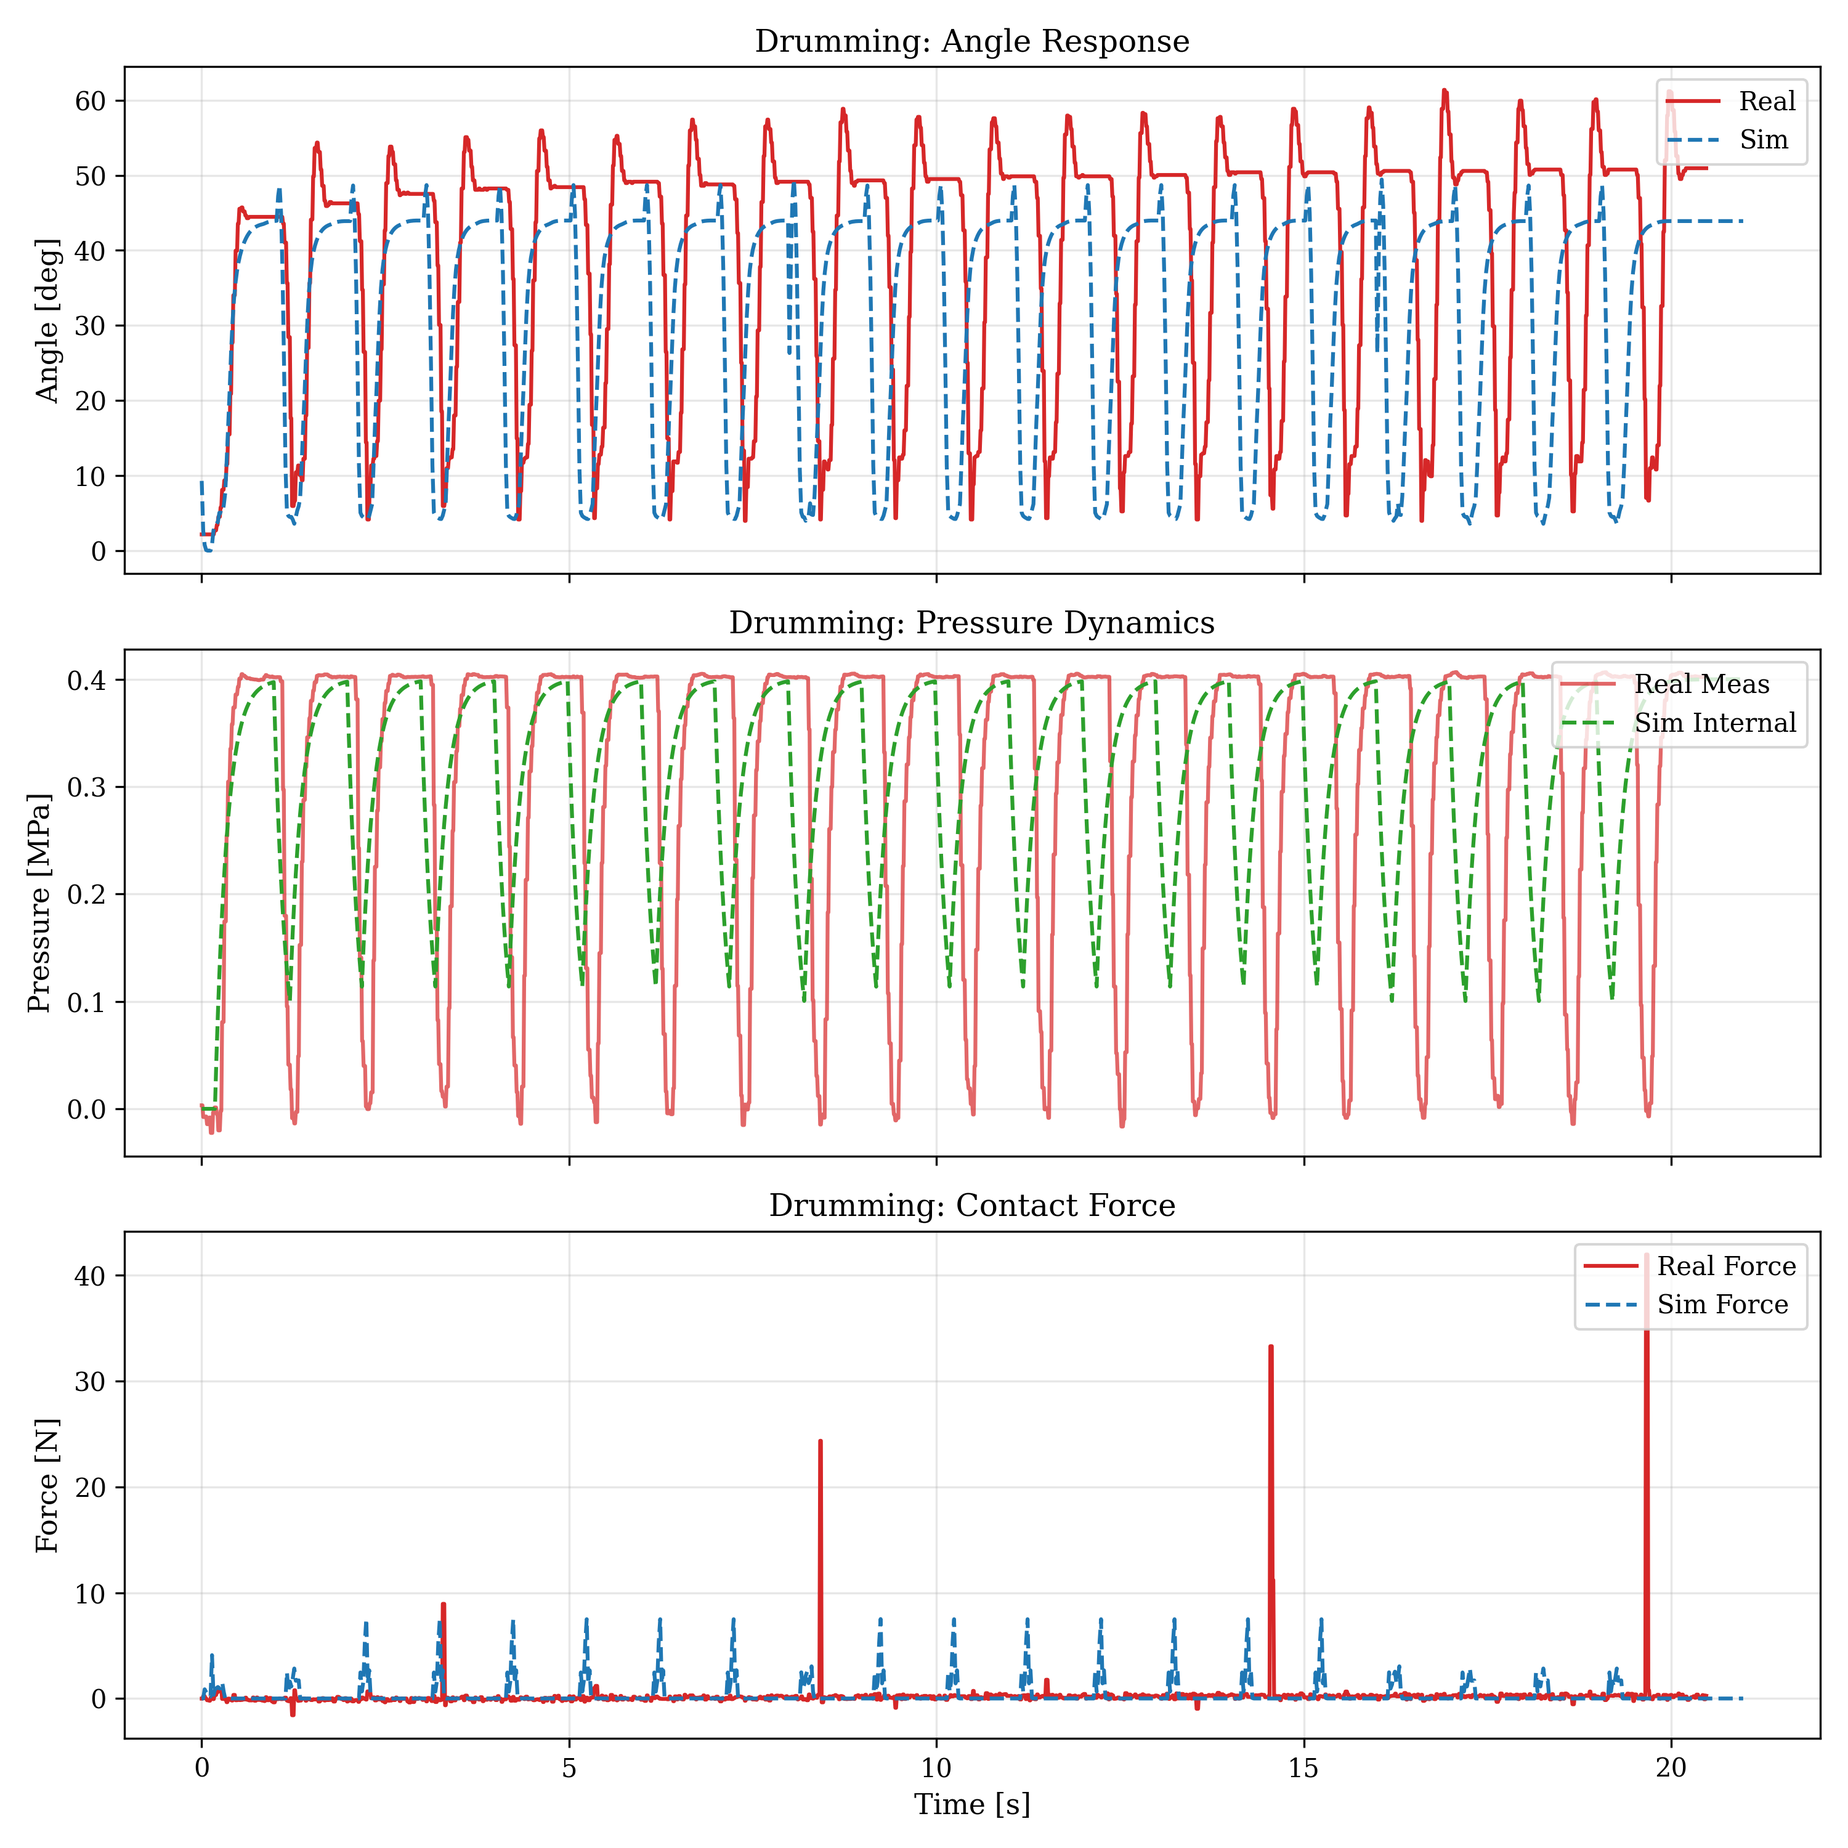
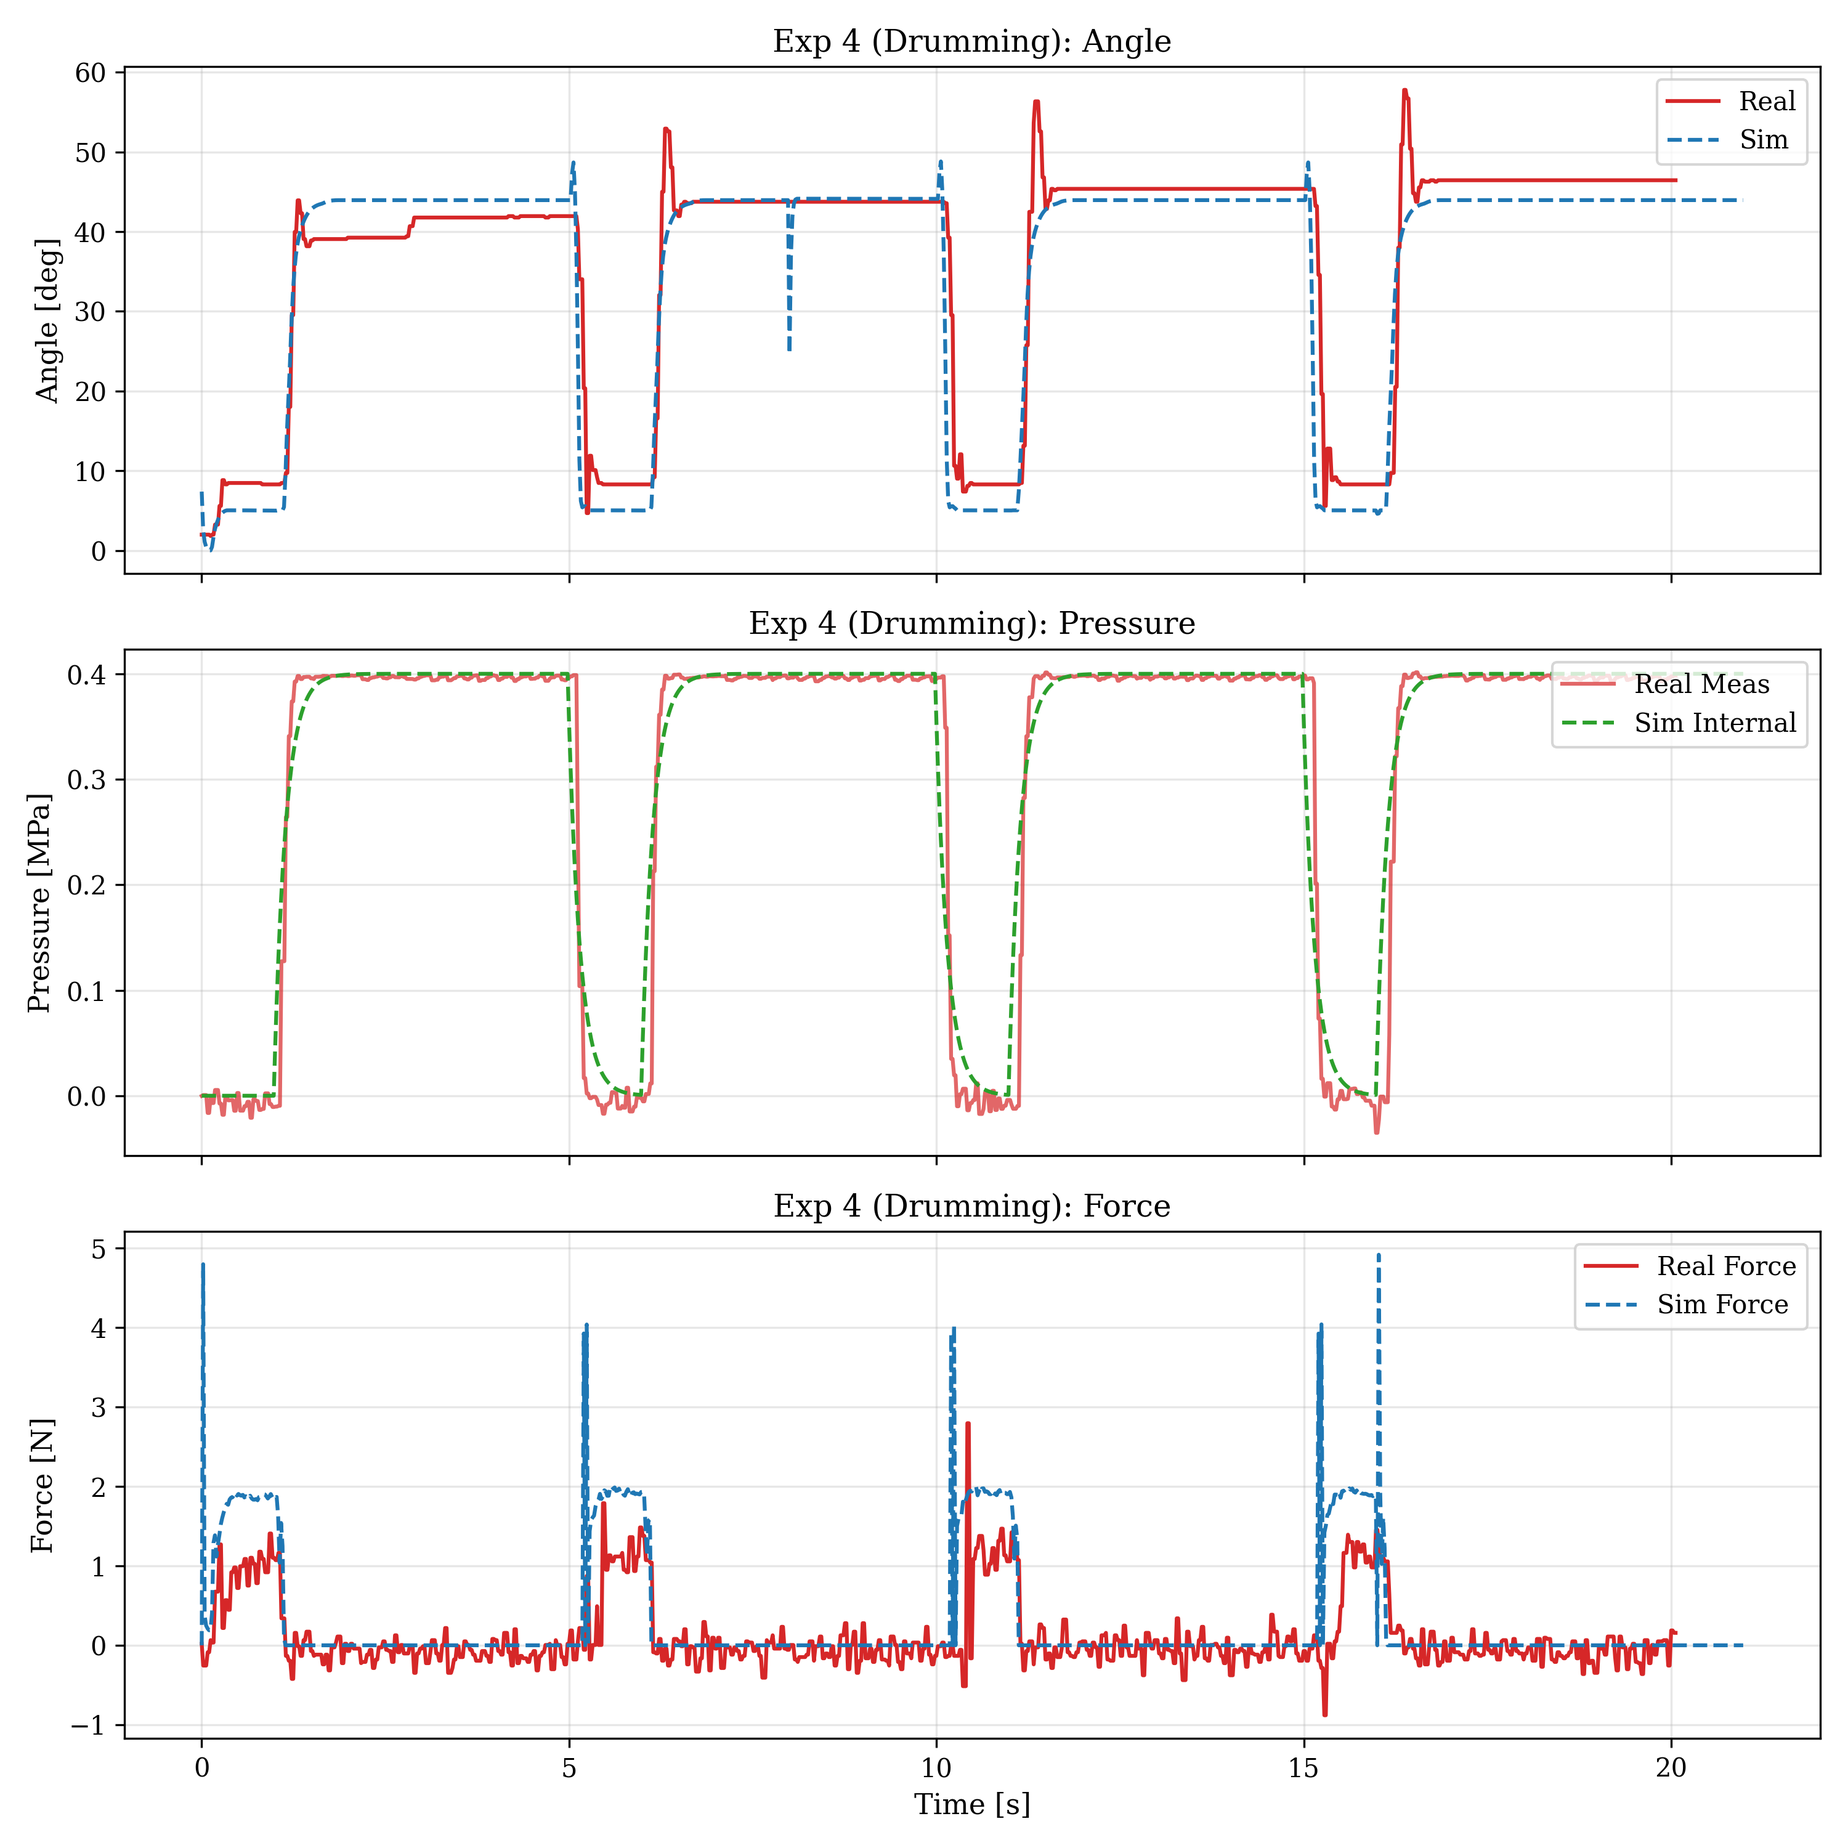
extra exp

diff --git a/scripts/verification/analyze_result_iros.py b/scripts/verification/analyze_result_iros.py
@@ -1,6 +1,6 @@
 """
-Porcaro Robot: IROS 2026 Final Analysis Script (v8)
-Target: Simple Raw Comparison (Zero-Start Alignment)
+Porcaro Robot: IROS 2026 Final Analysis Script (v12)
+Target: Exp1-8 Full Calibration Suite
 Author: Robo-Dev Partner
 """
 import os
@@ -10,7 +10,7 @@ import numpy as np
 import matplotlib.pyplot as plt
 
 # ==========================================
-# 1. Settings & Constants
+# 1. Settings
 # ==========================================
 def set_pub_style():
     plt.rcParams['font.family'] = 'serif'
@@ -24,153 +24,141 @@ def set_pub_style():
     plt.rcParams['savefig.dpi'] = 300
 
 set_pub_style()
-
 OUTPUT_DIR = "analysis_results_iros_final"
 os.makedirs(OUTPUT_DIR, exist_ok=True)
 
 # Colors
-CLR_CMD       = 'black'
-CLR_REAL_MEAS = '#D62728'  # Red
-CLR_SIM_OUT   = '#1F77B4'  # Blue
-CLR_SIM_INT   = '#2CA02C'  # Green
+CLR_CMD = 'black'; CLR_REAL_MEAS = '#D62728'; CLR_SIM_OUT = '#1F77B4'; CLR_SIM_INT = '#2CA02C'
 
 # ==========================================
-# 2. Robust File Finding Logic
+# 2. File Finding & Loading
 # ==========================================
 def find_latest_pair(exp_keywords):
-    """ 指定キーワードを含む最新のログペアを探す """
     search_root = "."
-    real_candidates = []
-    sim_candidates = []
+    real_cands, sim_cands = [], []
+    for root, _, files in os.walk(search_root):
+        for f in files:
+            if not f.endswith(".csv") or "analysis" in root: continue
+            path = os.path.join(root, f)
+            if all(k in f for k in exp_keywords):
+                if "sim_log" in f: sim_cands.append(path)
+                elif "data_" in f: real_cands.append(path)
 
-    for root, dirs, files in os.walk(search_root):
-        for file in files:
-            if not file.endswith(".csv"): continue
-            if "analysis_results" in root: continue 
-            
-            path = os.path.join(root, file)
-            if all(k in file for k in exp_keywords):
-                if "sim_log" in file:
-                    sim_candidates.append(path)
-                elif "data_" in file or "exp" in file:
-                    real_candidates.append(path)
-
-    if not real_candidates:
-        print(f"[Skip] No Real data found for keywords: {exp_keywords}")
+    if not real_cands:
+        print(f"[Skip] No Real data for {exp_keywords}")
         return None, None
     
-    real_file = max(real_candidates, key=os.path.getctime)
-    sim_file = max(sim_candidates, key=os.path.getctime) if sim_candidates else None
-    
-    print(f"[{exp_keywords[0]}] Pair Found:\n  Real: {os.path.basename(real_file)}\n  Sim : {os.path.basename(sim_file) if sim_file else 'None'}")
-    return real_file, sim_file
+    # data_ を優先し最新を取得
+    real_cands.sort(key=lambda x: (0 if "data_" in os.path.basename(x) else 1, -os.path.getctime(x)))
+    real = real_cands[0]
+    sim = max(sim_cands, key=os.path.getctime) if sim_cands else None
+    print(f"[{exp_keywords[0]}] Pair:\n  Real: {os.path.basename(real)}\n  Sim : {os.path.basename(sim) if sim else 'None'}")
+    return real, sim
 
-# ==========================================
-# 3. Simple Data Loading (Zero-Start Alignment)
-# ==========================================
 def load_and_sync(real_path, sim_path):
-    """ 
-    同期計算を行わず、単に0秒から開始するように正規化するだけの関数。
-    """
-    # --- Load Real ---
-    df_real = pd.read_csv(real_path)
-    t_col_r = next((c for c in ['time', 'timestamp', 'Time'] if c in df_real.columns), df_real.columns[0])
-    # 変更箇所: 最初のタイムスタンプを引いて0秒スタートにする
-    df_real['t_sync'] = df_real[t_col_r] - df_real[t_col_r].iloc[0]
+    # Real
+    try: df_r = pd.read_csv(real_path)
+    except: return None, None
+    if 'angle_deg' not in df_r.columns: return None, None
     
-    if 'force_N' not in df_real.columns: df_real['force_N'] = 0.0
-    if 'meas_pres_DF' not in df_real.columns: df_real['meas_pres_DF'] = np.nan
-
-    if not sim_path:
-        return df_real, None
-
-    # --- Load Sim ---
-    df_sim = pd.read_csv(sim_path)
-    t_col_s = next((c for c in ['time', 'timestamp', 'Time'] if c in df_sim.columns), df_sim.columns[0])
-    # 変更箇所: 最初のタイムスタンプを引いて0秒スタートにする
-    df_sim['t_sync'] = df_sim[t_col_s] - df_sim[t_col_s].iloc[0]
-
-    # カラムの補完
-    if 'sim_force_n' not in df_sim.columns: df_sim['sim_force_n'] = 0.0
-    if 'sim_pres_DF' not in df_sim.columns:
-        df_sim['sim_pres_DF'] = df_sim['cmd_DF'] if 'cmd_DF' in df_sim.columns else np.nan
+    t_col = next((c for c in ['time','timestamp','Time'] if c in df_r.columns), df_r.columns[0])
+    df_r['t_sync'] = df_r[t_col] - df_r[t_col].iloc[0]
     
-    print(f"  -> Comparison started from t=0.0s (Raw Alignment)")
-    return df_real, df_sim
+    # Missing Cols
+    if 'meas_pres_DF' not in df_r.columns: df_r['meas_pres_DF'] = np.nan
+    if 'force_N' not in df_r.columns: df_r['force_N'] = 0.0
+    
+    if not sim_path: return df_r, None
+
+    # Sim
+    try: df_s = pd.read_csv(sim_path)
+    except: return df_r, None
+    
+    t_col_s = next((c for c in ['time','timestamp','Time'] if c in df_s.columns), df_s.columns[0])
+    df_s['t_sync'] = df_s[t_col_s] - df_s[t_col_s].iloc[0]
+    
+    if 'sim_force_n' not in df_s.columns: df_s['sim_force_n'] = 0.0
+    if 'sim_pres_DF' not in df_s.columns: df_s['sim_pres_DF'] = df_s.get('cmd_DF', np.nan)
+    
+    return df_r, df_s
 
 # ==========================================
-# 4. Plotting Functions
+# 3. Plotting Functions
 # ==========================================
-
-def plot_exp1_hysteresis(real_path, sim_path):
+def plot_generic_drumming(real_path, sim_path, title_prefix, filename_suffix):
+    """ Exp4-8用の汎用ドラミングプロット (Angle, Pressure, Force) """
     df_r, df_s = load_and_sync(real_path, sim_path)
-    fig, axes = plt.subplots(1, 2, figsize=(11, 5))
-    axes[0].plot(df_r['t_sync'], df_r['meas_pres_DF'], color=CLR_REAL_MEAS, label='Real Meas')
-    if df_s is not None:
-        axes[0].plot(df_s['t_sync'], df_s['sim_pres_DF'], color=CLR_SIM_INT, linestyle='--', label='Sim Internal')
-    axes[0].set_xlabel('Time [s]'); axes[0].set_ylabel('Pressure [MPa]'); axes[0].legend(); axes[0].grid(True)
-    
-    axes[1].plot(df_r['meas_pres_DF'], df_r['angle_deg'], color=CLR_REAL_MEAS, label='Real')
-    if df_s is not None:
-        axes[1].plot(df_s['sim_pres_DF'], df_s['sim_angle_deg'], color=CLR_SIM_OUT, linestyle='--', label='Sim')
-    axes[1].set_xlabel('Pressure [MPa]'); axes[1].set_ylabel('Angle [deg]'); axes[1].legend(); axes[1].grid(True)
-    plt.savefig(os.path.join(OUTPUT_DIR, "Fig_Exp1_Hysteresis.png")); plt.close()
-
-def plot_exp2_step(real_path, sim_path):
-    df_r, df_s = load_and_sync(real_path, sim_path)
-    fig, axes = plt.subplots(2, 1, figsize=(8, 7), sharex=True)
-    axes[0].plot(df_r['t_sync'], df_r['angle_deg'], color=CLR_REAL_MEAS, label='Real')
-    if df_s is not None: axes[0].plot(df_s['t_sync'], df_s['sim_angle_deg'], color=CLR_SIM_OUT, linestyle='--', label='Sim')
-    axes[0].set_ylabel('Angle [deg]'); axes[0].legend(); axes[0].grid(True)
-    axes[1].plot(df_r['t_sync'], df_r['meas_pres_DF'], color=CLR_REAL_MEAS, label='Real Meas')
-    if df_s is not None: axes[1].plot(df_s['t_sync'], df_s['sim_pres_DF'], color=CLR_SIM_INT, linestyle='--', label='Sim Internal')
-    axes[1].set_ylabel('Pressure [MPa]'); axes[1].set_xlabel('Time [s]'); axes[1].legend(); axes[1].grid(True)
-    plt.savefig(os.path.join(OUTPUT_DIR, "Fig_Exp2_Step.png")); plt.close()
-
-def plot_exp3_analysis(real_path, sim_path):
-    df_r, df_s = load_and_sync(real_path, sim_path)
-    if df_s is None: return
-    fig, axes = plt.subplots(2, 1, figsize=(10, 8), sharex=True)
-    axes[0].plot(df_r['t_sync'], df_r['angle_deg'], color=CLR_REAL_MEAS, label='Real'); axes[0].plot(df_s['t_sync'], df_s['sim_angle_deg'], color=CLR_SIM_OUT, linestyle='--', label='Sim')
-    axes[1].plot(df_r['t_sync'], df_r['meas_pres_DF'], color=CLR_REAL_MEAS, label='Real Meas'); axes[1].plot(df_s['t_sync'], df_s['sim_pres_DF'], color=CLR_SIM_INT, linestyle='--', label='Sim Internal')
-    axes[0].set_ylabel('Angle [deg]'); axes[1].set_ylabel('Pressure [MPa]'); axes[1].set_xlabel('Time [s]'); axes[0].grid(True); axes[1].grid(True)
-    plt.savefig(os.path.join(OUTPUT_DIR, "Fig_Exp3_TimeSeries.png")); plt.close()
-
-def plot_exp4_drumming(real_path, sim_path):
-    """ Exp-4: Drumming Task (Angle, Pressure, Force の3軸比較) """
-    df_r, df_s = load_and_sync(real_path, sim_path)
-    if df_s is None: return
+    if df_r is None: return
 
     fig, axes = plt.subplots(3, 1, figsize=(10, 10), sharex=True)
     
     # (a) Angle
     axes[0].plot(df_r['t_sync'], df_r['angle_deg'], color=CLR_REAL_MEAS, label='Real')
-    axes[0].plot(df_s['t_sync'], df_s['sim_angle_deg'], color=CLR_SIM_OUT, linestyle='--', label='Sim')
-    axes[0].set_ylabel('Angle [deg]'); axes[0].set_title('Drumming: Angle Response'); axes[0].legend(loc='upper right'); axes[0].grid(True)
+    if df_s is not None:
+        axes[0].plot(df_s['t_sync'], df_s['sim_angle_deg'], color=CLR_SIM_OUT, linestyle='--', label='Sim')
+    axes[0].set_ylabel('Angle [deg]'); axes[0].set_title(f'{title_prefix}: Angle'); axes[0].legend(loc='upper right'); axes[0].grid(True)
 
     # (b) Pressure
     axes[1].plot(df_r['t_sync'], df_r['meas_pres_DF'], color=CLR_REAL_MEAS, alpha=0.7, label='Real Meas')
-    axes[1].plot(df_s['t_sync'], df_s['sim_pres_DF'], color=CLR_SIM_INT, linestyle='--', label='Sim Internal')
-    axes[1].set_ylabel('Pressure [MPa]'); axes[1].set_title('Drumming: Pressure Dynamics'); axes[1].legend(loc='upper right'); axes[1].grid(True)
+    if df_s is not None:
+        axes[1].plot(df_s['t_sync'], df_s['sim_pres_DF'], color=CLR_SIM_INT, linestyle='--', label='Sim Internal')
+    axes[1].set_ylabel('Pressure [MPa]'); axes[1].set_title(f'{title_prefix}: Pressure'); axes[1].legend(loc='upper right'); axes[1].grid(True)
 
-    # (c) Contact Force
+    # (c) Force
     axes[2].plot(df_r['t_sync'], df_r['force_N'], color=CLR_REAL_MEAS, label='Real Force')
-    axes[2].plot(df_s['t_sync'], df_s['sim_force_n'], color=CLR_SIM_OUT, linestyle='--', label='Sim Force')
-    axes[2].set_ylabel('Force [N]'); axes[2].set_xlabel('Time [s]'); axes[2].set_title('Drumming: Contact Force'); axes[2].legend(loc='upper right'); axes[2].grid(True)
+    if df_s is not None:
+        axes[2].plot(df_s['t_sync'], df_s['sim_force_n'], color=CLR_SIM_OUT, linestyle='--', label='Sim Force')
+    axes[2].set_ylabel('Force [N]'); axes[2].set_xlabel('Time [s]'); axes[2].set_title(f'{title_prefix}: Force'); axes[2].legend(loc='upper right'); axes[2].grid(True)
 
-    out = os.path.join(OUTPUT_DIR, "Fig_Exp4_Drumming.png")
+    out = os.path.join(OUTPUT_DIR, f"Fig_{filename_suffix}.png")
     plt.savefig(out); plt.close()
     print(f"Saved: {out}")
 
+# Wrappers
+def plot_exp4(r, s): plot_generic_drumming(r, s, "Exp 4 (Drumming)", "Exp4_Drumming")
+def plot_exp5(r, s): plot_generic_drumming(r, s, "Exp 5 (Amplitude)", "Exp5_Amplitude")
+def plot_exp6(r, s): plot_generic_drumming(r, s, "Exp 6 (Duration)", "Exp6_Duration")
+def plot_exp7(r, s): plot_generic_drumming(r, s, "Exp 7 (Stiffness)", "Exp7_Stiffness")
+def plot_exp8(r, s): plot_generic_drumming(r, s, "Exp 8 (Speed)", "Exp8_Speed")
+
+# Exp1-3 Functions (Simplified for brevity, same as before)
+def plot_exp1(r, s): # Hysteresis
+    df_r, df_s = load_and_sync(r, s)
+    if df_r is None: return
+    fig, axes = plt.subplots(1, 2, figsize=(11, 5))
+    axes[0].plot(df_r['t_sync'], df_r['meas_pres_DF'], color=CLR_REAL_MEAS, label='Real')
+    if df_s is not None: axes[0].plot(df_s['t_sync'], df_s['sim_pres_DF'], color=CLR_SIM_INT, ls='--', label='Sim')
+    axes[0].set_title('Pressure'); axes[0].legend(); axes[0].grid(True)
+    axes[1].plot(df_r['meas_pres_DF'], df_r['angle_deg'], color=CLR_REAL_MEAS)
+    if df_s is not None: axes[1].plot(df_s['sim_pres_DF'], df_s['sim_angle_deg'], color=CLR_SIM_OUT, ls='--')
+    axes[1].set_title('Hysteresis Loop'); axes[1].grid(True)
+    plt.savefig(os.path.join(OUTPUT_DIR, "Fig_Exp1_Hysteresis.png")); plt.close()
+
+def plot_exp2(r, s): # Step
+    plot_generic_drumming(r, s, "Exp 2 (Step)", "Exp2_Step") # Reuse generic for simplicity
+
+def plot_exp3(r, s): # Sweep
+    df_r, df_s = load_and_sync(r, s)
+    if df_r is None: return
+    fig, ax = plt.subplots(figsize=(10, 5))
+    ax.plot(df_r['t_sync'], df_r['angle_deg'], color=CLR_REAL_MEAS, label='Real')
+    if df_s is not None: ax.plot(df_s['t_sync'], df_s['sim_angle_deg'], color=CLR_SIM_OUT, ls='--', label='Sim')
+    ax.set_title('Exp 3: Frequency Sweep'); ax.legend(); ax.grid(True)
+    plt.savefig(os.path.join(OUTPUT_DIR, "Fig_Exp3_Sweep.png")); plt.close()
+
 # ==========================================
-# 5. Main Execution
+# 4. Main
 # ==========================================
 if __name__ == "__main__":
     exps = [
-        (["exp1", "static", "hysteresis"], plot_exp1_hysteresis, "Exp 1"),
-        (["exp2", "step"], plot_exp2_step, "Exp 2"),
-        (["exp3", "sweep", "freq"], plot_exp3_analysis, "Exp 3"),
-        (["exp4", "drumming", "task"], plot_exp4_drumming, "Exp 4")
+        (["exp1", "static"], plot_exp1, "Exp 1"),
+        (["exp2", "step"],   plot_exp2, "Exp 2"),
+        (["exp3", "sweep"],  plot_exp3, "Exp 3"),
+        (["exp4", "drum"],   plot_exp4, "Exp 4"),
+        (["exp5", "amp"],    plot_exp5, "Exp 5"),
+        (["exp6", "dur"],    plot_exp6, "Exp 6"),
+        (["exp7", "stiff"],  plot_exp7, "Exp 7"),
+        (["exp8", "speed"],  plot_exp8, "Exp 8"),
     ]
 
     for keywords, func, label in exps:

diff --git a/source/porcaro_rl/porcaro_rl/tasks/direct/porcaro_rlv1/porcaro_rl_env.py b/source/porcaro_rl/porcaro_rl/tasks/direct/porcaro_rlv1/porcaro_rl_env.py
@@ -56,7 +56,7 @@ class PorcaroRLEnv(DirectRLEnv):
         self.curriculum_thresholds = [70_000_000, 210_000_000]
 
         # 物理パラメータを変えずに、強化学習が見る値だけを実機スケールに合わせる
-        self.force_scale_sim_to_real = 1.0
+        self.force_scale_sim_to_real = 10.0
 
         # 親クラスの __init__ を呼ぶ
         super().__init__(cfg, render_mode, **kwargs)
